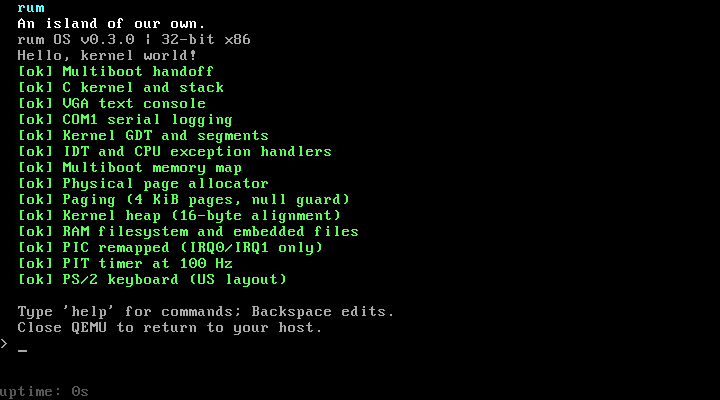
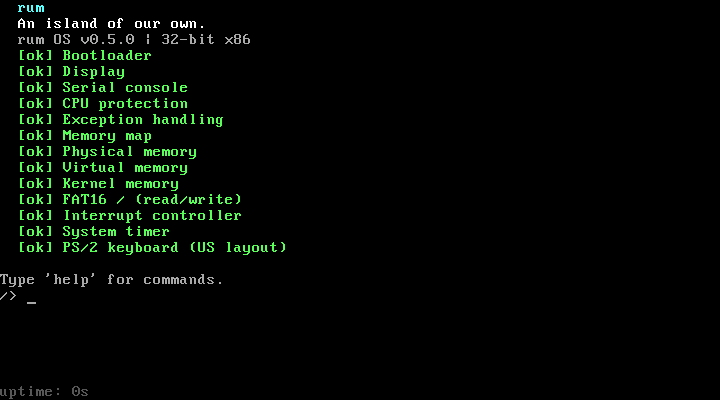
docs: document persistent system disks and refresh screenshots

Changed region(s): [[0.0, 0.12, 0.4889, 0.75], [0.0306, 0.75, 0.4583, 0.84], [0.4889, 0.75, 0.5194, 0.81]]

diff --git a/docs/release.md b/docs/release.md
@@ -1,176 +1,73 @@
 # Building a release
 
-The release archive contains `rum.iso`, the root README and `docs/`. The ISO
-already includes the kernel, `/rum` system image and embedded RAM files. A user
-disk is optional and is never included in the archive.
+`rum.zip` contains the ISO, README and documentation. The ISO provides the
+kernel and recovery console. Normal startup also needs a prepared FAT16 disk
+containing `/RUM` programs. The separate `rum-vm-images.zip` contains a fresh
+installed disk in raw, VMDK and VDI formats, the ISO and a VMware preset. Never
+publish a disk that has been used for personal files or testing.
 
-## Check the source and boot image
+## Validate a committed build
 
-From a committed checkout in Ubuntu or WSL, run:
+In Ubuntu/WSL, from a clean committed checkout:
 
 ```sh
 python3 scripts/release-check.py
 ```
 
-The command copies tracked source into a fresh temporary directory, builds it,
-runs the complete host and QEMU suite, validates the ZIP and boots the ISO
-extracted from that ZIP. It uses the repository's cross-compiler by default;
-pass `--cross-prefix /path/to/i686-elf-` or `--qemu /path/to/qemu-system-i386`
-for another installation. `--jobs` controls build parallelism. Tests run
-with four bounded workers after shared builds, fixtures and packaging finish.
-Per-suite logs and timings are included in `test-artifacts/suite/`; see
-[testing](testing.md).
+The checker copies tracked sources to a new temporary directory, builds with
+bounded parallelism and runs the complete host/QEMU suite. Tests validate
+persistent root files across separate boots, read-only/malformed/full disks,
+process isolation, cancellation, cleanup and injected storage failures.
+The exact ISO extracted from the package is booted too. No caller's disk is
+used and the original build directory is not cleaned.
 
-Results are saved in `build/release-check/<commit>-<time>/`: `result.json`,
-build/test logs, guest artifacts, `rum.elf`, `rum-system.raw`, `rum.iso` and
-`rum.zip`. A failed run records `passed: false` and exits unsuccessfully; its
-files are diagnostic artifacts, not a validated release. The source checkout,
-existing `build/` outputs and user disks are left in place.
+Results are saved under `build/release-check/<commit>-<time>/`: `result.json`,
+logs, guest diagnostics, kernel, ISO, package and a pristine `rum-system.raw`.
+The report records ISO and system-disk SHA256 values. Only a report with
+`passed: true` represents a successful check.
 
-For a focused storage/session check during development:
+## Verify on Windows and Linux
 
-```sh
-make test-release-integration
-```
-
-It boots the ISO and direct ELF with 16 and 64 MiB, writes `/notes.txt`,
-quits QEMU and verifies identical bytes in a fresh guest and through `mcopy`.
-It also exercises no disk, rejected geometry, a forced read-only mount, media
-that fills during use, deletion/cluster reuse and disk read/write/flush errors.
-RAM commands, child launch, diagnostics, recovery and Snake must remain usable.
-The archive's exact ISO boots without an attached disk at 16, 64, 256 and
-1152 MiB. Serial and QEMU logs are under
-`build/test-artifacts/release-integration/`.
-
-Error injection uses QEMU's
-[blkdebug driver](https://www.qemu.org/docs/master/devel/testing/blkdebug.html)
-below the production ATA driver. Separate backend tests interrupt each FAT
-write/flush stage, including partial-sector writes. All tests create their own
-temporary disk images. They check exact file bytes, both FAT copies, cluster
-ownership and canary sectors beyond the declared volume.
-
-Process tests repeatedly fault or cancel a ring-3 program after real disk I/O
-while it retains a disk handle and working directory. After reaping, file
-references, objects, live heap allocations and private pages must return to
-their baseline. CPU isolation, invalid user buffers and syscall packets have
-separate regression cases.
-
-For the concurrent workload specifically, run:
-
-```sh
-make test-integration-stress
-```
-
-This uses disposable FAT16 images and a test-only kernel/program pair. Each of
-two representative boot/RAM configurations runs 16 rounds and 80 processes: two CPU workers,
-file writers/readers, a sleeper and a foreground reader. It checks independent
-physical mappings at equal virtual addresses, active CR3/TSS agreement and
-private canaries while scheduling continues. Parent exit, fault and Ctrl+C leave
-children holding real disk handles for the normal adoption/cleanup paths.
-After every round, process, session, wait, file-reference, live-heap and physical
-page counts must return to baseline, accounting for retained heap mappings.
-
-After QEMU stops, Mtools must recover exact binary bytes, both FAT copies must
-agree, unrelated files and sectors beyond the volume must be unchanged, and
-`fsck.fat -n` must report a clean filesystem. Install `dosfstools` if that checker
-is missing. Logs, filesystem checks and process/switch totals are saved in
-`build/test-artifacts/integration-stress/`. The complete suite includes this test
-alongside the dedicated no-yield register-preservation, lifecycle, console,
-public-ABI and disk-failure tests.
-
-## Verify packaging on each host
-
-Python packaging needs no additional modules. After building the ISO:
-
-```sh
-python3 tests/package-test.py
-```
-
-On Windows, use:
-
-```powershell
-.\rum.ps1 build
-py -3 tests/package-test.py
-& .\tests\disk-launcher-test.ps1
-```
-
-The package test builds `rum.zip`, verifies every member against its source,
-checks the ZIP's integrity and rejects extra boot payloads, debug outputs and
-disk images. The launcher test records arguments without opening QEMU or
-modifying a user disk. Extract the resulting archive and boot `rum.iso` to
-check Windows QEMU as well:
-
-```powershell
-qemu-system-i386 -m 64M -cdrom rum.iso
-```
-
-For an archive made on another host, compare the uncompressed ISO's SHA256
-with the verified `result.json`. ZIP bytes can differ between hosts because
-source timestamps differ.
-
-To validate the exact clean-build candidate without replacing local build
-outputs, run the host check against its result directory. On Windows:
+Run the host checker against that successful release directory:
 
 ```powershell
 py -3 tests/release-host-test.py --release build/release-check/<commit>-<time> --qemu qemu-system-i386.exe
+.\tests\disk-launcher-test.ps1
 ```
-
-On Linux/WSL, use `python3` and `--qemu qemu-system-i386`. This stages tracked
-packaging sources and documentation in a temporary directory, packages the
-validated ISO with that host's Python, verifies every ZIP member, and boots the
-ISO extracted from that ZIP with native QEMU. It exercises `start`, `ps`, `kill`,
-timed completion notices, recovery diagnostics and Snake. It never attaches a
-mutable disk. Results and the archive are under the candidate directory's
-`host-windows/` or `host-linux/` folder.
-
-The clean check must have passed and the ISO hash must match. If only the README
-or documentation changed while completing the release checklist, the host check
-records both the tested code commit and the packaging commit. Any executable,
-test or build-source change requires a new clean check. The working tree must
-be committed for both checks.
-
-## Try persistent files
-
-Create and format a **new** image using [FAT16 setup](fat16.md). Attach it with
-`make run DISK_IMAGE=/path/to/image.raw` or
-`.\rum.ps1 run -DiskImage C:\path\image.raw`. In rum:
-
-```text
-/> write /notes.txt saved on the island
-/> cat /notes.txt
-saved on the island
-```
-
-Close QEMU, boot with the same image and read the file again. With QEMU stopped,
-check it from the host:
 
 ```sh
-mcopy -i /path/to/image.raw ::/NOTES.TXT -
-mdir -i /path/to/image.raw ::/
+python3 tests/release-host-test.py --release build/release-check/<commit>-<time>
 ```
 
-Never edit or repair an image while it is attached to rum. FAT names use the
-supported uppercase 8.3 spelling; lowercase paths resolve to that spelling.
-RAM edits disappear on reboot, `/rum` stays read-only, and `/` is the
-persistent mount. See [paths](filesystems.md), [file syscalls](filesystem-syscalls.md)
-and [process syscalls](process-syscalls.md) for their public contracts.
+It packages with the host's native Python, verifies source/archive bytes and
+boots the extracted ISO using a temporary copy of the validated system disk.
+It checks program launch, process tools, cancellation, recovery and cleanup.
+The original system disk is never booted writable. Source changes beyond
+README/docs require a new clean release check.
 
-## Disk errors and recovery
+## Prepare VM downloads
 
-A successful mutation flushes file data, both FAT copies and directory metadata
-in the [documented order](fat16.md#write-ordering-and-interruption). FAT writes
-are not journaled or crash-atomic. Full media can also prevent copy-on-write
-replacement of an existing file; deleting a closed file can free space.
+After building the intended source commit:
 
-After an uncertain write or flush error, the disk mount stops further I/O.
-RAM files and `/rum` programs remain available. Use `recovery` for `diag`, `mem`
-and the kernel console. Stop QEMU, preserve the failed image and inspect or
-repair a disposable copy with host tools before mounting it again. A rejected
-disk at boot does not prevent the normal userspace shell from starting.
+```sh
+python3 scripts/prepare-vm-images.py --output build/vm-images-release
+```
 
-## Publish the verified archive
+This refuses an existing output directory. The raw image is freshly formatted
+and populated from `build/user/programs.txt`; VMDK and VDI conversions are
+compared byte for byte with it. The bundle includes checksums and VM setup
+instructions. Keep the ISO attached: the disk contains programs and files,
+not an HDD bootloader.
 
-Before tagging, set the release's displayed version and rerun the checks on
-that committed source. Upload the verified `rum.zip`; `rum.iso` can also be a
-separate download. Keep a mutable user disk separate. Record the source commit
-and ISO SHA256 so the downloaded artifact can be compared with the tested one.
+## Persistence and recovery
+
+With a prepared image, write `/NOTES.TXT`, wait for the prompt, stop QEMU and
+boot again with the same disk. Read identical bytes with `cat /NOTES.TXT` and
+host mtools after QEMU exits. Never open the same writable image in two VMs.
+
+A missing, unsupported or damaged disk starts the recovery console. Help,
+echo, `mem`, `diag` and Snake remain available; file commands require a usable
+disk. The normal shell's built-in `recovery` command also works after storage
+errors prevent loading programs. FAT16 is not journaled. Preserve a damaged
+image and inspect or repair a copy with host FAT tools; rum does not silently
+format or repair it. See [FAT16](fat16.md) for interrupted-write guarantees.

diff --git a/docs/virtual-machines.md b/docs/virtual-machines.md
@@ -87,7 +87,7 @@ The quickest setup is the generated preset:
 
 Keep `rum.vmx`, `rum.iso`, and `rum-data.vmdk` in the same directory. The preset
 uses one CPU, 64 MiB RAM, BIOS firmware, an IDE optical drive at **IDE 0:0**,
-and the writable data disk at **IDE 1:0**. It also writes COM1 output to
+and the writable system disk at **IDE 1:0**. It also writes COM1 output to
 `vmware-serial.log` for troubleshooting.
 
 For a manually created VM, select **Other / Other (32-bit)** and install the
@@ -163,17 +163,19 @@ At rum's prompt:
 
 ```text
 /> ls /
+RUM/
 README.TXT
+WELCOME.TXT
 /> cat /README.TXT
-Hello from rum's installed system disk!
-This file survives VM restarts.
+rum OS v0.5.0
+...
 /> write /NOTE.TXT hello from rum
 /> cat /NOTE.TXT
 hello from rum
 ```
 
 Wait for the prompt after the write, power off the VM, and start it again with
-the same ISO and data disk attached. `cat /NOTE.TXT` should recover the
+the same ISO and system disk attached. `cat /NOTE.TXT` should recover the
 same text. rum has no guest shutdown command yet; a completed filesystem write
 flushes before returning success. FAT16 is not journaled, so avoid powering off
 while a file operation is active. See [FAT16 write guarantees](fat16.md).
@@ -186,7 +188,7 @@ access use the emulated legacy hardware directly.
 
 - **No bootable medium:** attach the ISO, enable connection at power-on, use
   BIOS, and put the optical drive first. The system disk requires the ISO to start the kernel.
-- **The shell works but `/` is unavailable:** verify IDE **1:0 / Secondary
+- **The filesystem is unavailable in recovery:** verify IDE **1:0 / Secondary
   Master** and use the prepared FAT16 image. A blank disk or an MBR-partitioned
   volume is not the supported disk layout.
 - **Keyboard input is missing:** click the display and use the legacy PS/2
@@ -196,8 +198,7 @@ access use the emulated legacy hardware directly.
 - **Only the recovery shell starts:** check that you attached the complete
   current ISO and a prepared disk containing `/RUM/SHELL.ELF`.
 
-The settings above were boot-tested on Windows with VMware Workstation
-17.5.2 and VirtualBox 7.2.4. VirtualBox additionally passed keyboard-driven
-listing, file creation/readback, and readback after a separate boot. Image
-conversion was checked byte for byte with `qemu-img`; data-disk tests used
-disposable copies, leaving the supplied images unchanged.
+These controller settings were previously tested with VMware Workstation
+17.5.2 and VirtualBox 7.2.4. The current system-disk installer is checked with
+QEMU and host FAT tools; converted images are compared byte for byte with
+`qemu-img`. This does not replace testing a new release in each hypervisor.

diff --git a/docs/user-abi.md b/docs/user-abi.md
@@ -98,14 +98,13 @@ kernel stack, and task record.
 
 ## Loading an executable
 
-`make user` packs stripped executables into `build/rum-system.raw`. GRUB loads
-it separately from the kernel and it mounts read-only at `/rum`. No userspace
-ELF is linked into `rum.elf`. Ordinary root files still come from `assets/disk/`.
-Symbol-rich ELFs and linker maps stay under `build/user/debug/`.
+`make user` builds stripped executables in `build/user/system/` and writes the
+installation manifest. `prepare-disk` installs them in `/RUM` on the FAT16 root.
+No user ELF is linked into the kernel or loaded as a boot module. Symbol-rich
+ELFs and linker maps stay under `build/user/debug/`.
 
 The common filesystem loader copies a bounded executable image before applying
-`elf_load_process`. The legacy `elf_load_ramfs` helper remains for RAM fixtures
-and recovery files. The loader validates the complete ELF and argument
+`elf_load_process`. Test fixtures load byte buffers through the same validator. The loader validates the complete ELF and argument
 packet before creating an address space. It then allocates distinct zeroed pages
 for each LOAD segment, copies only file-backed bytes, applies final read/write
 permissions, maps the fixed 64 KiB stack, and builds `argc`, `argv`, and an empty

diff --git a/docs/roadmap.md b/docs/roadmap.md
@@ -274,7 +274,7 @@ Unix signal model remain later work.
   exit, cancellation, a user fault, or partial setup.
 - [ ] Move the game loop, board, scoring, and rendering into `snake.elf` using
   only public terminal, timing, and process interfaces.
-- [ ] Retain a recovery-shell game path so missing or rejected system images
+- [ ] Retain a recovery-shell game path so missing or rejected system disks
   do not remove diskless recovery functionality.
 
 Test Snake under competing CPU load, invalid terminal packets, background
@@ -300,7 +300,7 @@ supported size and encoding limits.
 - [ ] Redraw the prompt and current line after asynchronous job notifications.
 
 Test quoted paths, empty arguments, escaped separators, unmatched quotes,
-maximum line/argument sizes, history limits, completion on both mounts, and
+maximum line/argument sizes, history limits, completion across the disk root, and
 notifications arriving during editing. Variables, globbing, command substitution,
 and script execution remain outside this release.
 

diff --git a/docs/process-syscalls.md b/docs/process-syscalls.md
@@ -238,8 +238,8 @@ of the blocked initial shell; nested and ordinary children are denied.
 An exit request is applied after the command ends and its launch syscall has
 reaped the child and freed temporary buffers. Existing restart/recovery rules
 then apply. This interface exposes no parent pointer, arbitrary PID or kernel
-address. `run cd /disk` is denied because `run` launches an ordinary nested child;
-type `cd /disk` directly.
+address. `run cd /DOCS` is denied because `run` launches an ordinary nested child;
+type `cd /DOCS` directly.
 
 ## Yielding and sleeping
 

diff --git a/docs/memory-layout.md b/docs/memory-layout.md
@@ -85,7 +85,7 @@ that frame remains responsible for it.
 ## Process publication and cleanup
 
 A process address space is built while it is inactive and owned by the caller.
-`elf_load_process` or `elf_load_ramfs` validates the complete image and argument
+`elf_load_process` validates the complete image and argument
 packet, maps program and stack pages, and returns that private space with a
 trusted CPU frame. Everything must be complete before `task_create_process` is
 called.
